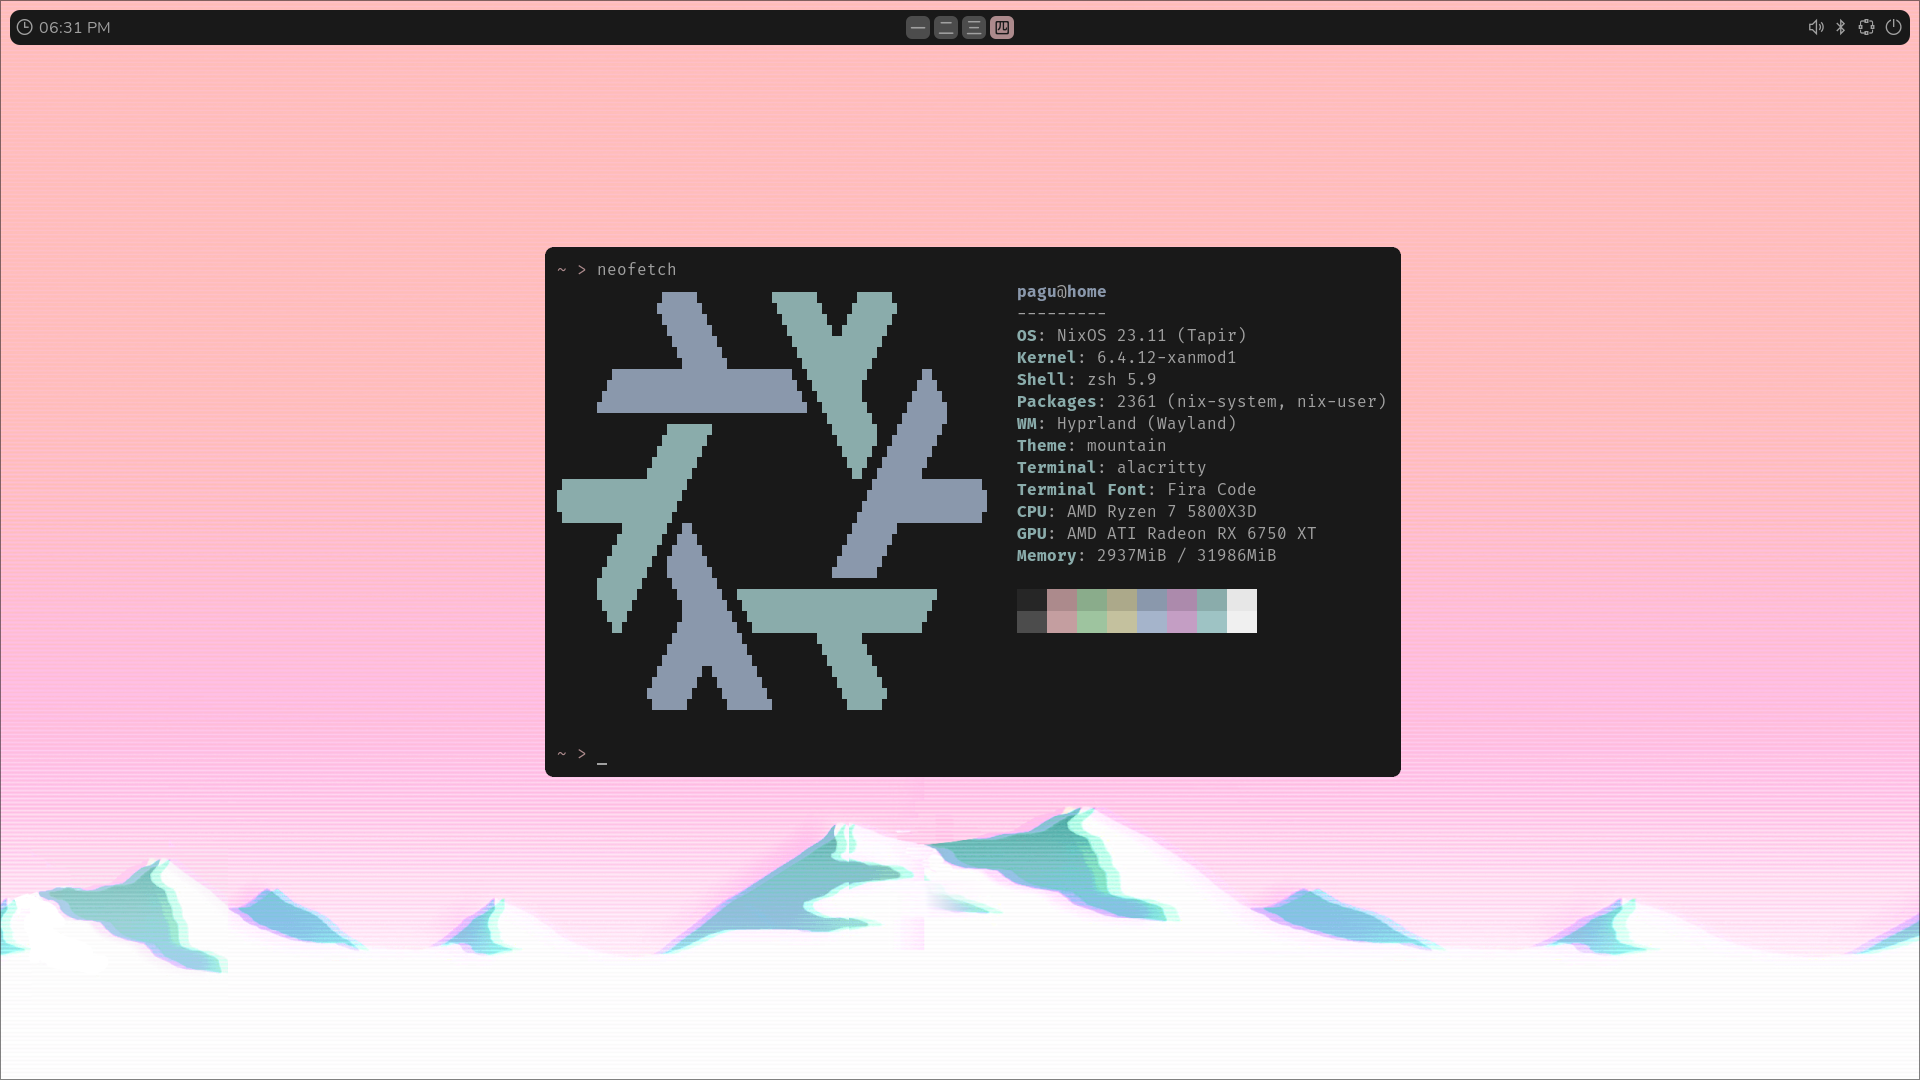
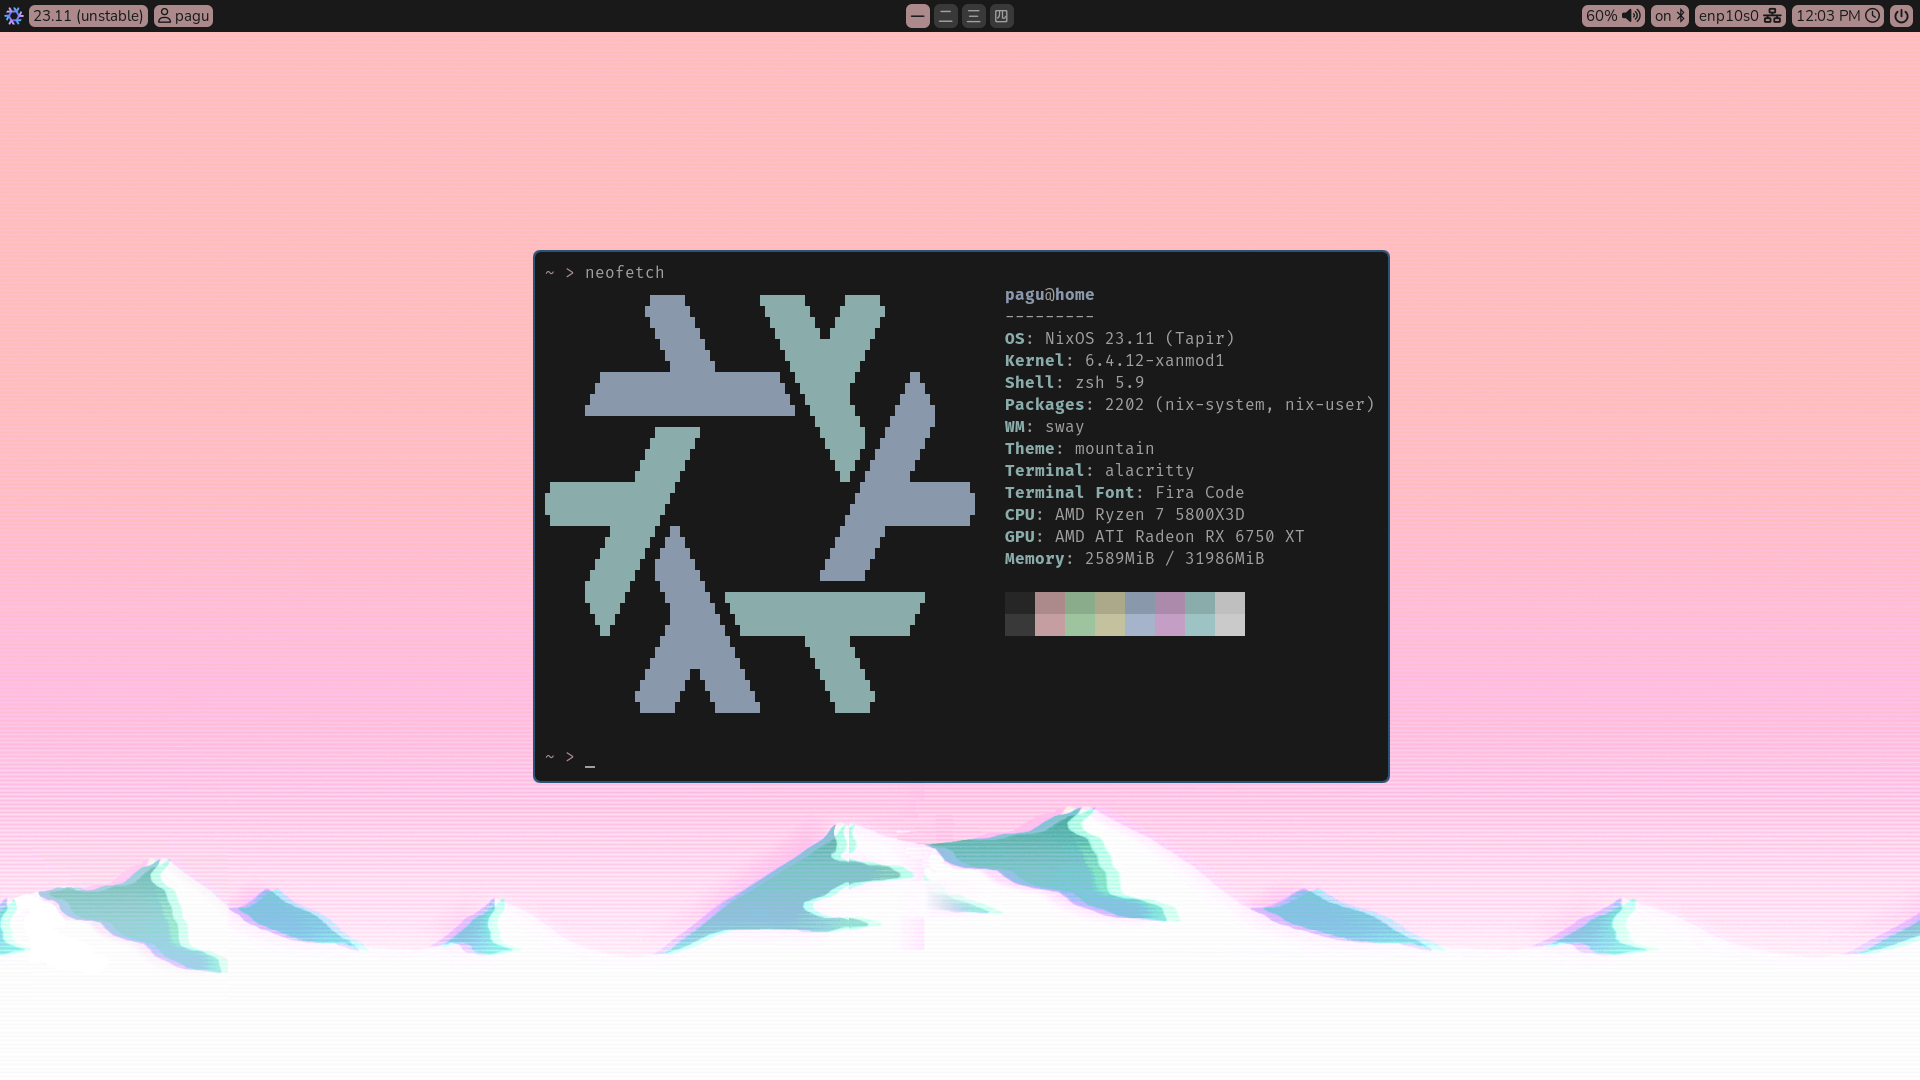
update readme

Changed region(s): [[0.25, 0.2139, 0.75, 0.7333], [0.0, 0.0, 1.0, 0.0611], [0.4688, 0.55, 0.5, 0.5806]]

diff --git a/README.md b/README.md
@@ -8,7 +8,7 @@
 
 Unstable w/ Flakes & Home-Manager
 
-**[Hyprland]** w/ **[Waybar]** & **[Alacritty]**
+**[Swayfx]** w/ **[Waybar]** & **[Alacritty]**
 
 Themed w/ **[Mountain]** (**[Fuji]**)
 <br>
@@ -27,7 +27,7 @@ Themed w/ **[Mountain]** (**[Fuji]**)
 
 <!----------------------------------------------------------------------------->
 
-[Hyprland]: https://github.com/hyprwm/Hyprland
+[Swayfx]: https://github.com/WillPower3309/swayfx
 [Waybar]: https://github.com/Alexays/Waybar
 [Alacritty]: https://github.com/alacritty/alacritty
 [Mountain]: https://github.com/mountain-theme/Mountain
